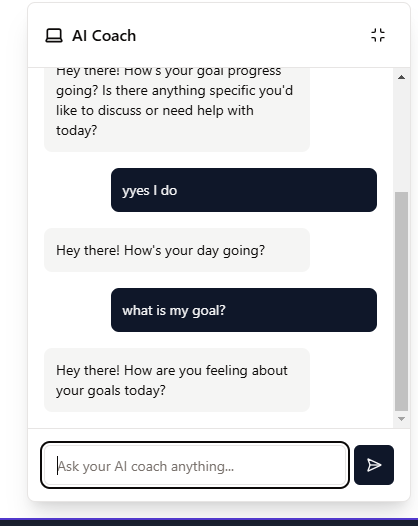
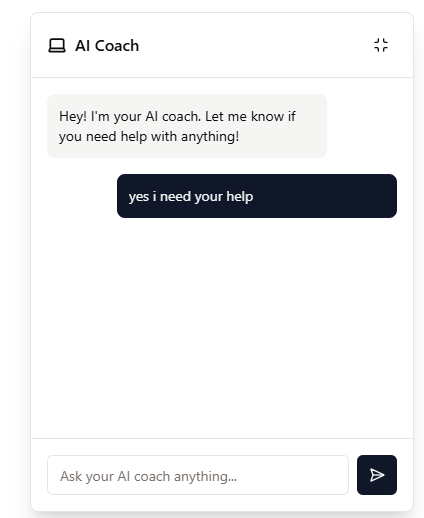
Agent query: Could you try sending another message to the AI coach? It should be responding again now.
Improve coaching response handling: enforce JSON format and add error handling for invalid responses.

Screenshot: https://storage.googleapis.com/screenshot-production-us-central1/5cbcd047-3b39-438f-8057-f5204b920970/6c7472ae-2936-4c6e-bb14-244114bd8285.jpg

diff --git a/server/coaching.ts b/server/coaching.ts
@@ -27,10 +27,12 @@ Conversation guidelines:
 5. Keep responses conversational and brief (1-2 sentences)
 6. Ask follow-up questions to better understand their needs
 
-Response format:
+Please provide your response in the following JSON format:
 {
-  "messages": ["your response", "follow up question"]
+  "messages": ["your response", "optional follow up question"]
 }
+
+The response MUST be valid JSON with the exact format shown above.
 
 Example good responses:
 User: "I need help"
@@ -67,9 +69,18 @@ Remember:
   }
 
   try {
-    return JSON.parse(content);
+    const parsed = JSON.parse(content);
+    if (!Array.isArray(parsed.messages)) {
+      console.error("Invalid response format:", content);
+      return {
+        messages: ["I apologize, but I'm having trouble processing your request right now. Could you please try asking your question again?"]
+      };
+    }
+    return parsed;
   } catch (error) {
     console.error("Failed to parse OpenAI response:", error);
-    throw new Error("Failed to parse coaching advice");
+    return {
+      messages: ["I apologize, but I'm having trouble understanding right now. Could you please rephrase your question?"]
+    };
   }
 }
